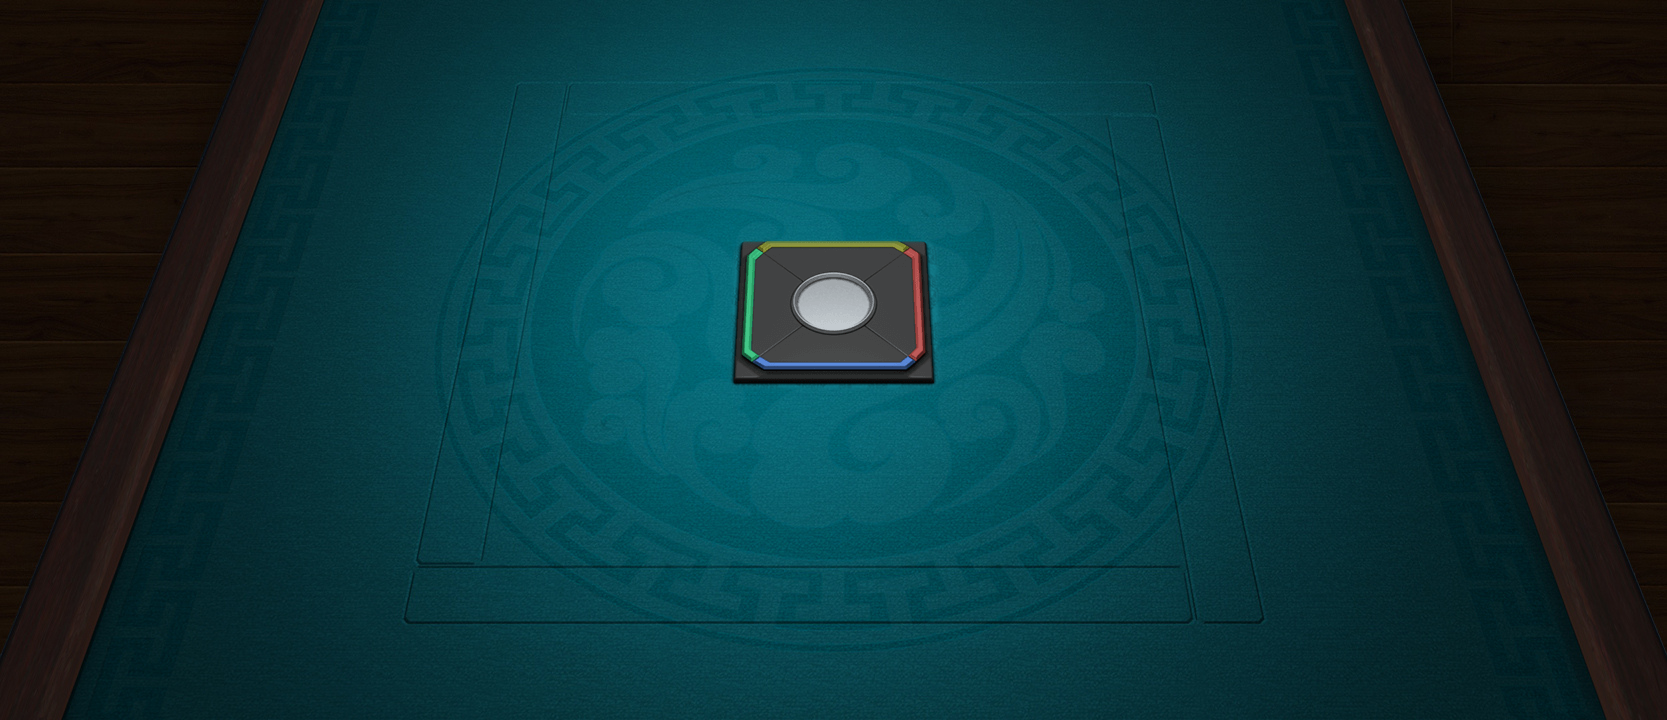
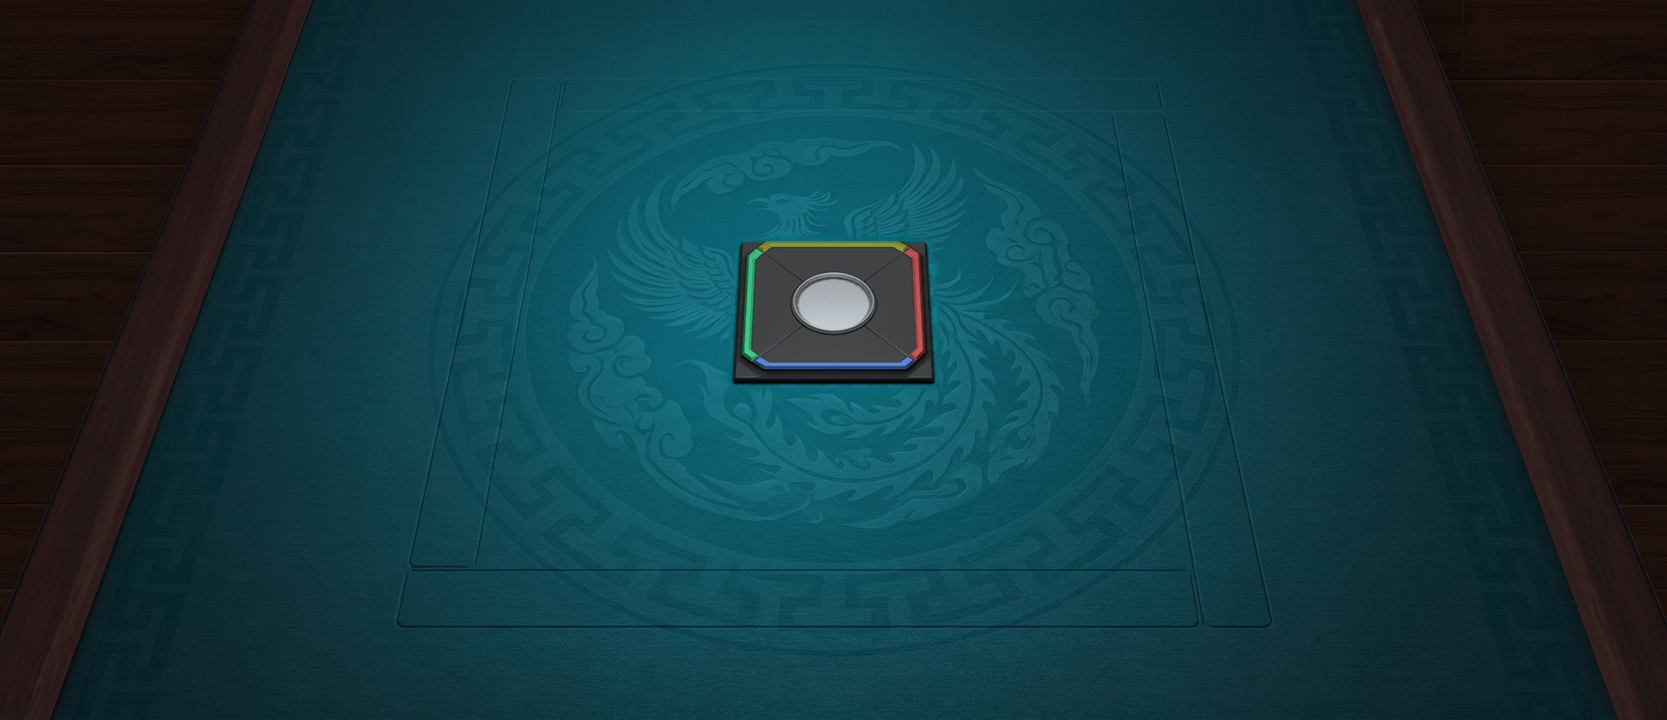
替换凤凰纹3D牌桌背景

diff --git a/tools/build-ios-ipa.js b/tools/build-ios-ipa.js
@@ -542,6 +542,15 @@ l.default.uiHelper.showTip(t);
   fs.copyFileSync(path.join(ROOT, 'assets', 'branding', 'login', 'login-logo.png'), path.join(brandingTarget, 'login-logo.png'));
   if (COCOS_BASE === 'ios') {
     applyIosBrandingAssets(app);
+  } else {
+    // R234 资源来自 Android APK，但 iOS 的中央东南西北灯盘必须保留。
+    // 用同一张桌面图的 iOS 专版覆盖 R234 的 3D 背景槽位，避免灯盘被
+    // Android 背景盖掉而只剩不完整的闪灯动画。
+    replaceCocosAsset(
+      path.join(ROOT, 'assets', 'branding', 'table', 'table-background-3d-ios.png'),
+      path.join(app, 'res', 'raw-assets', '0e', '0ed69516-3023-4cb0-947a-abd9aab04b9f.jpg'),
+    );
+    console.log('      已写入 iOS 专用 3D 桌面并保留中央灯盘');
   }
   fs.copyFileSync(path.join(ROOT, 'assets', 'branding', 'startup', 'splash-screen.png'), path.join(app, 'LaunchImage12.png'));
 
